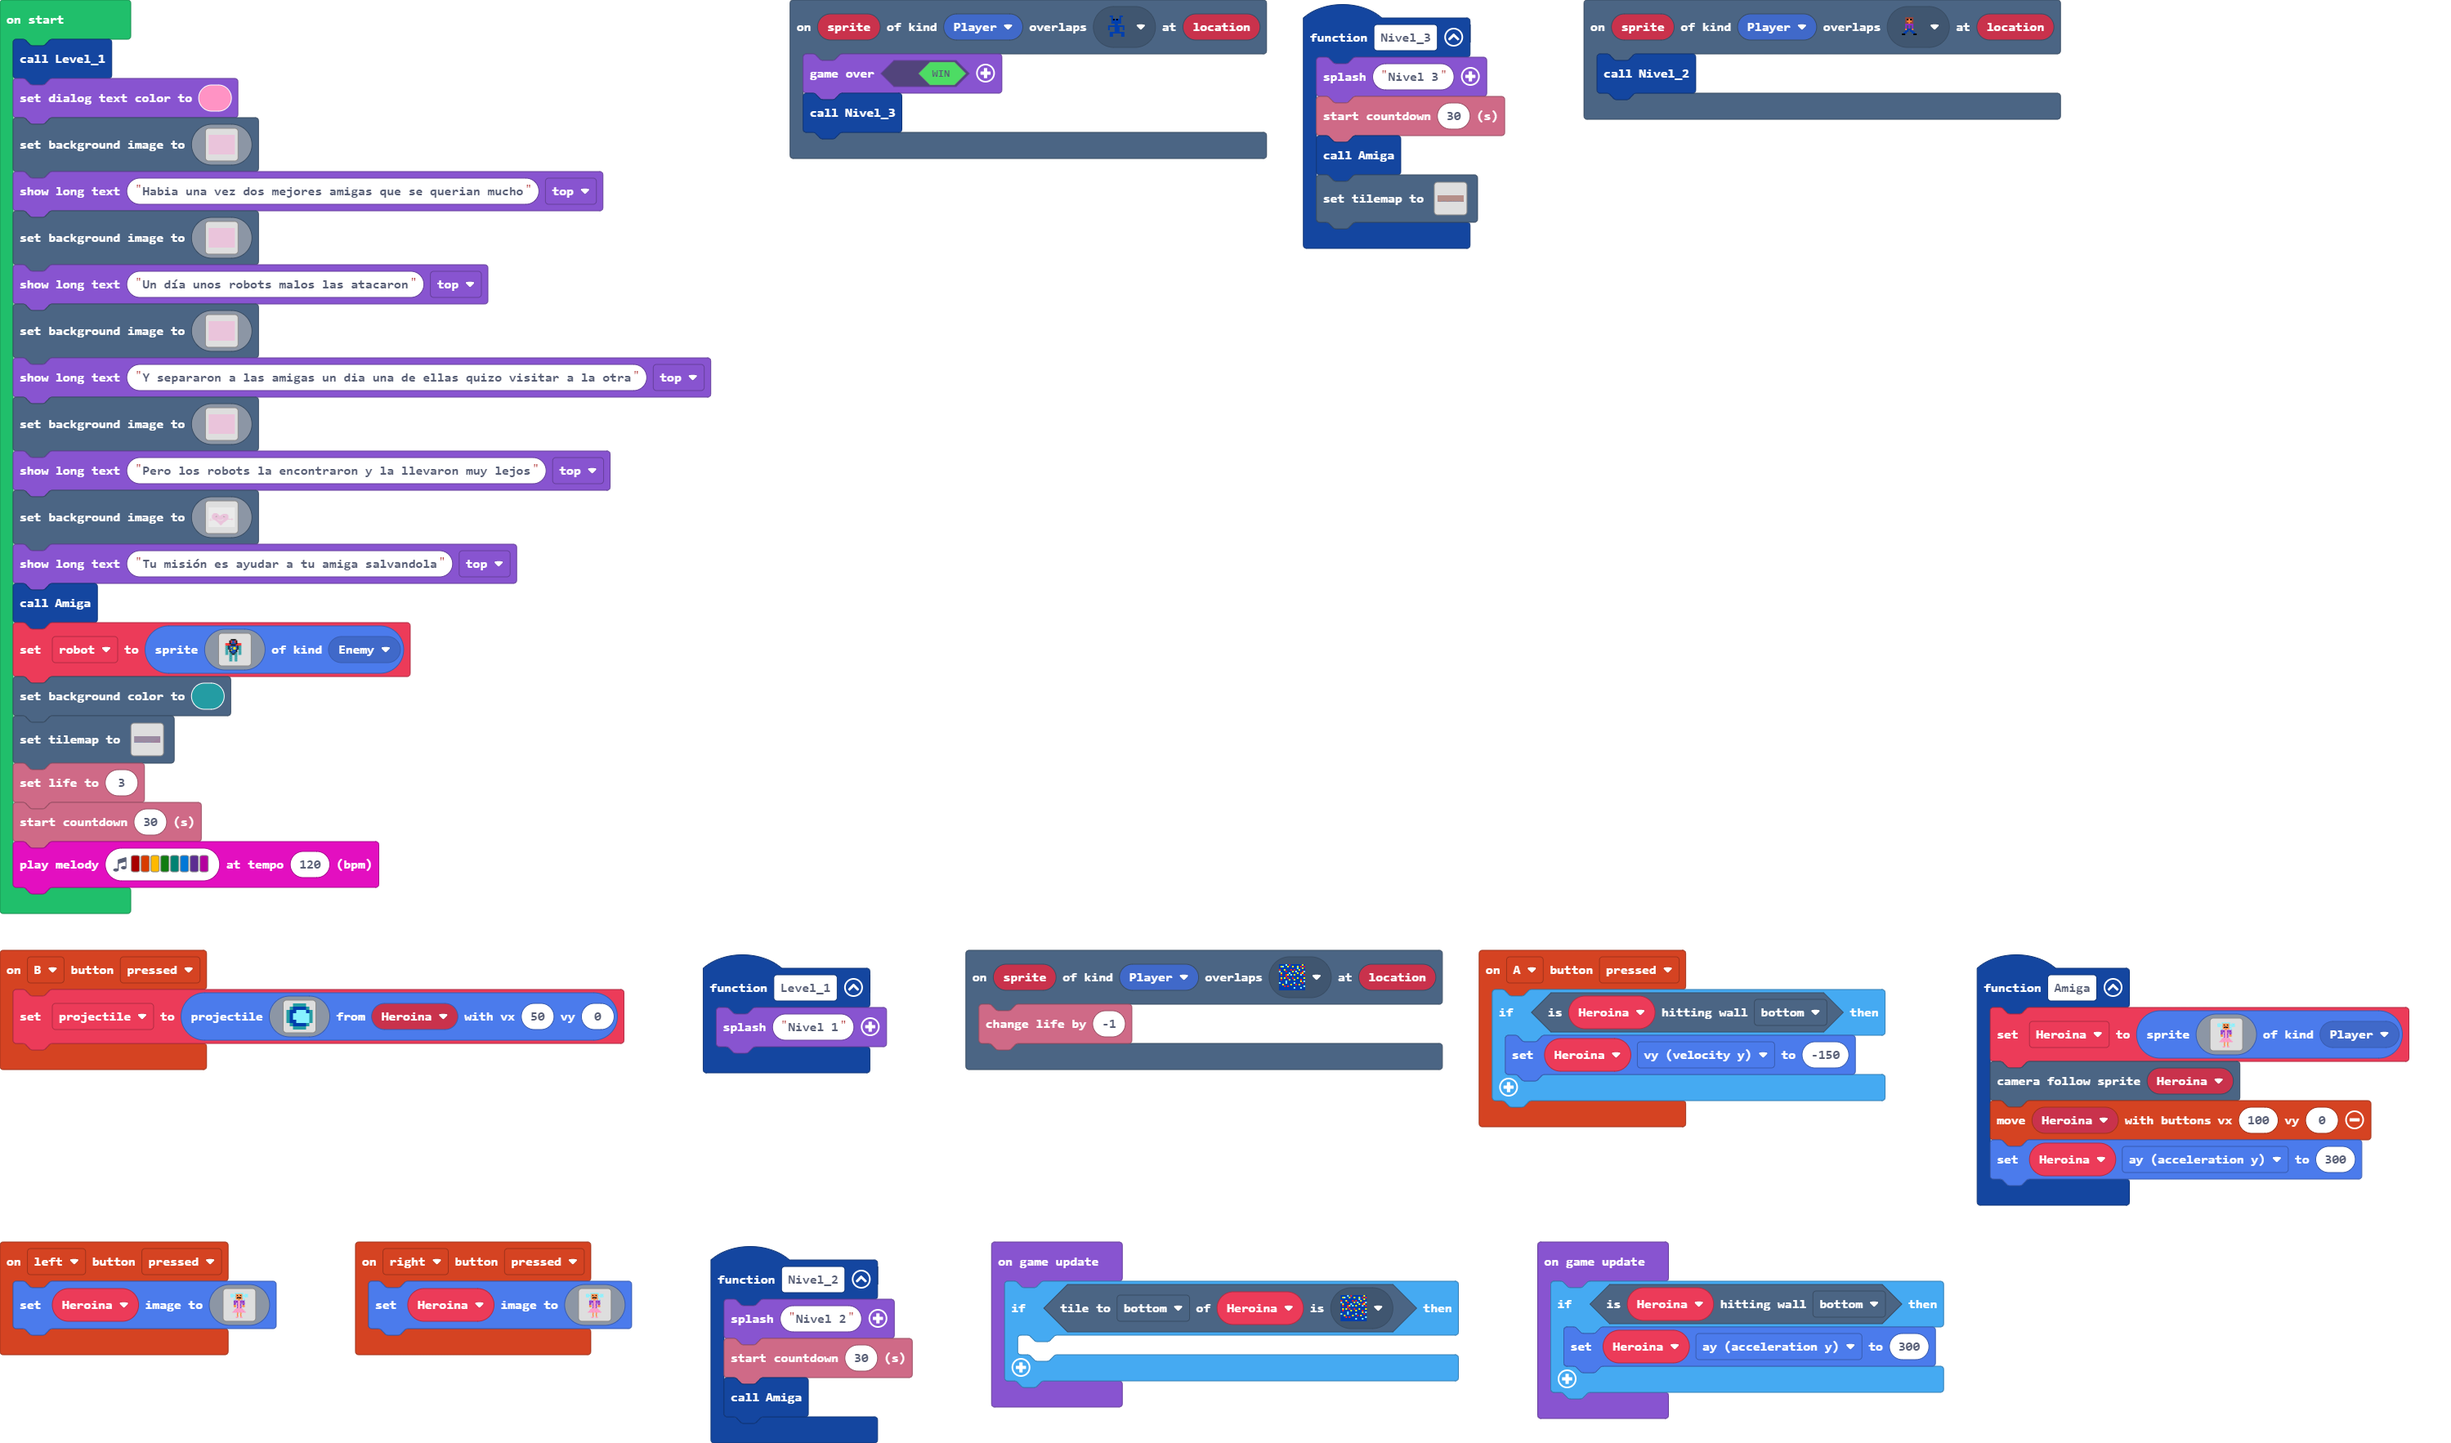
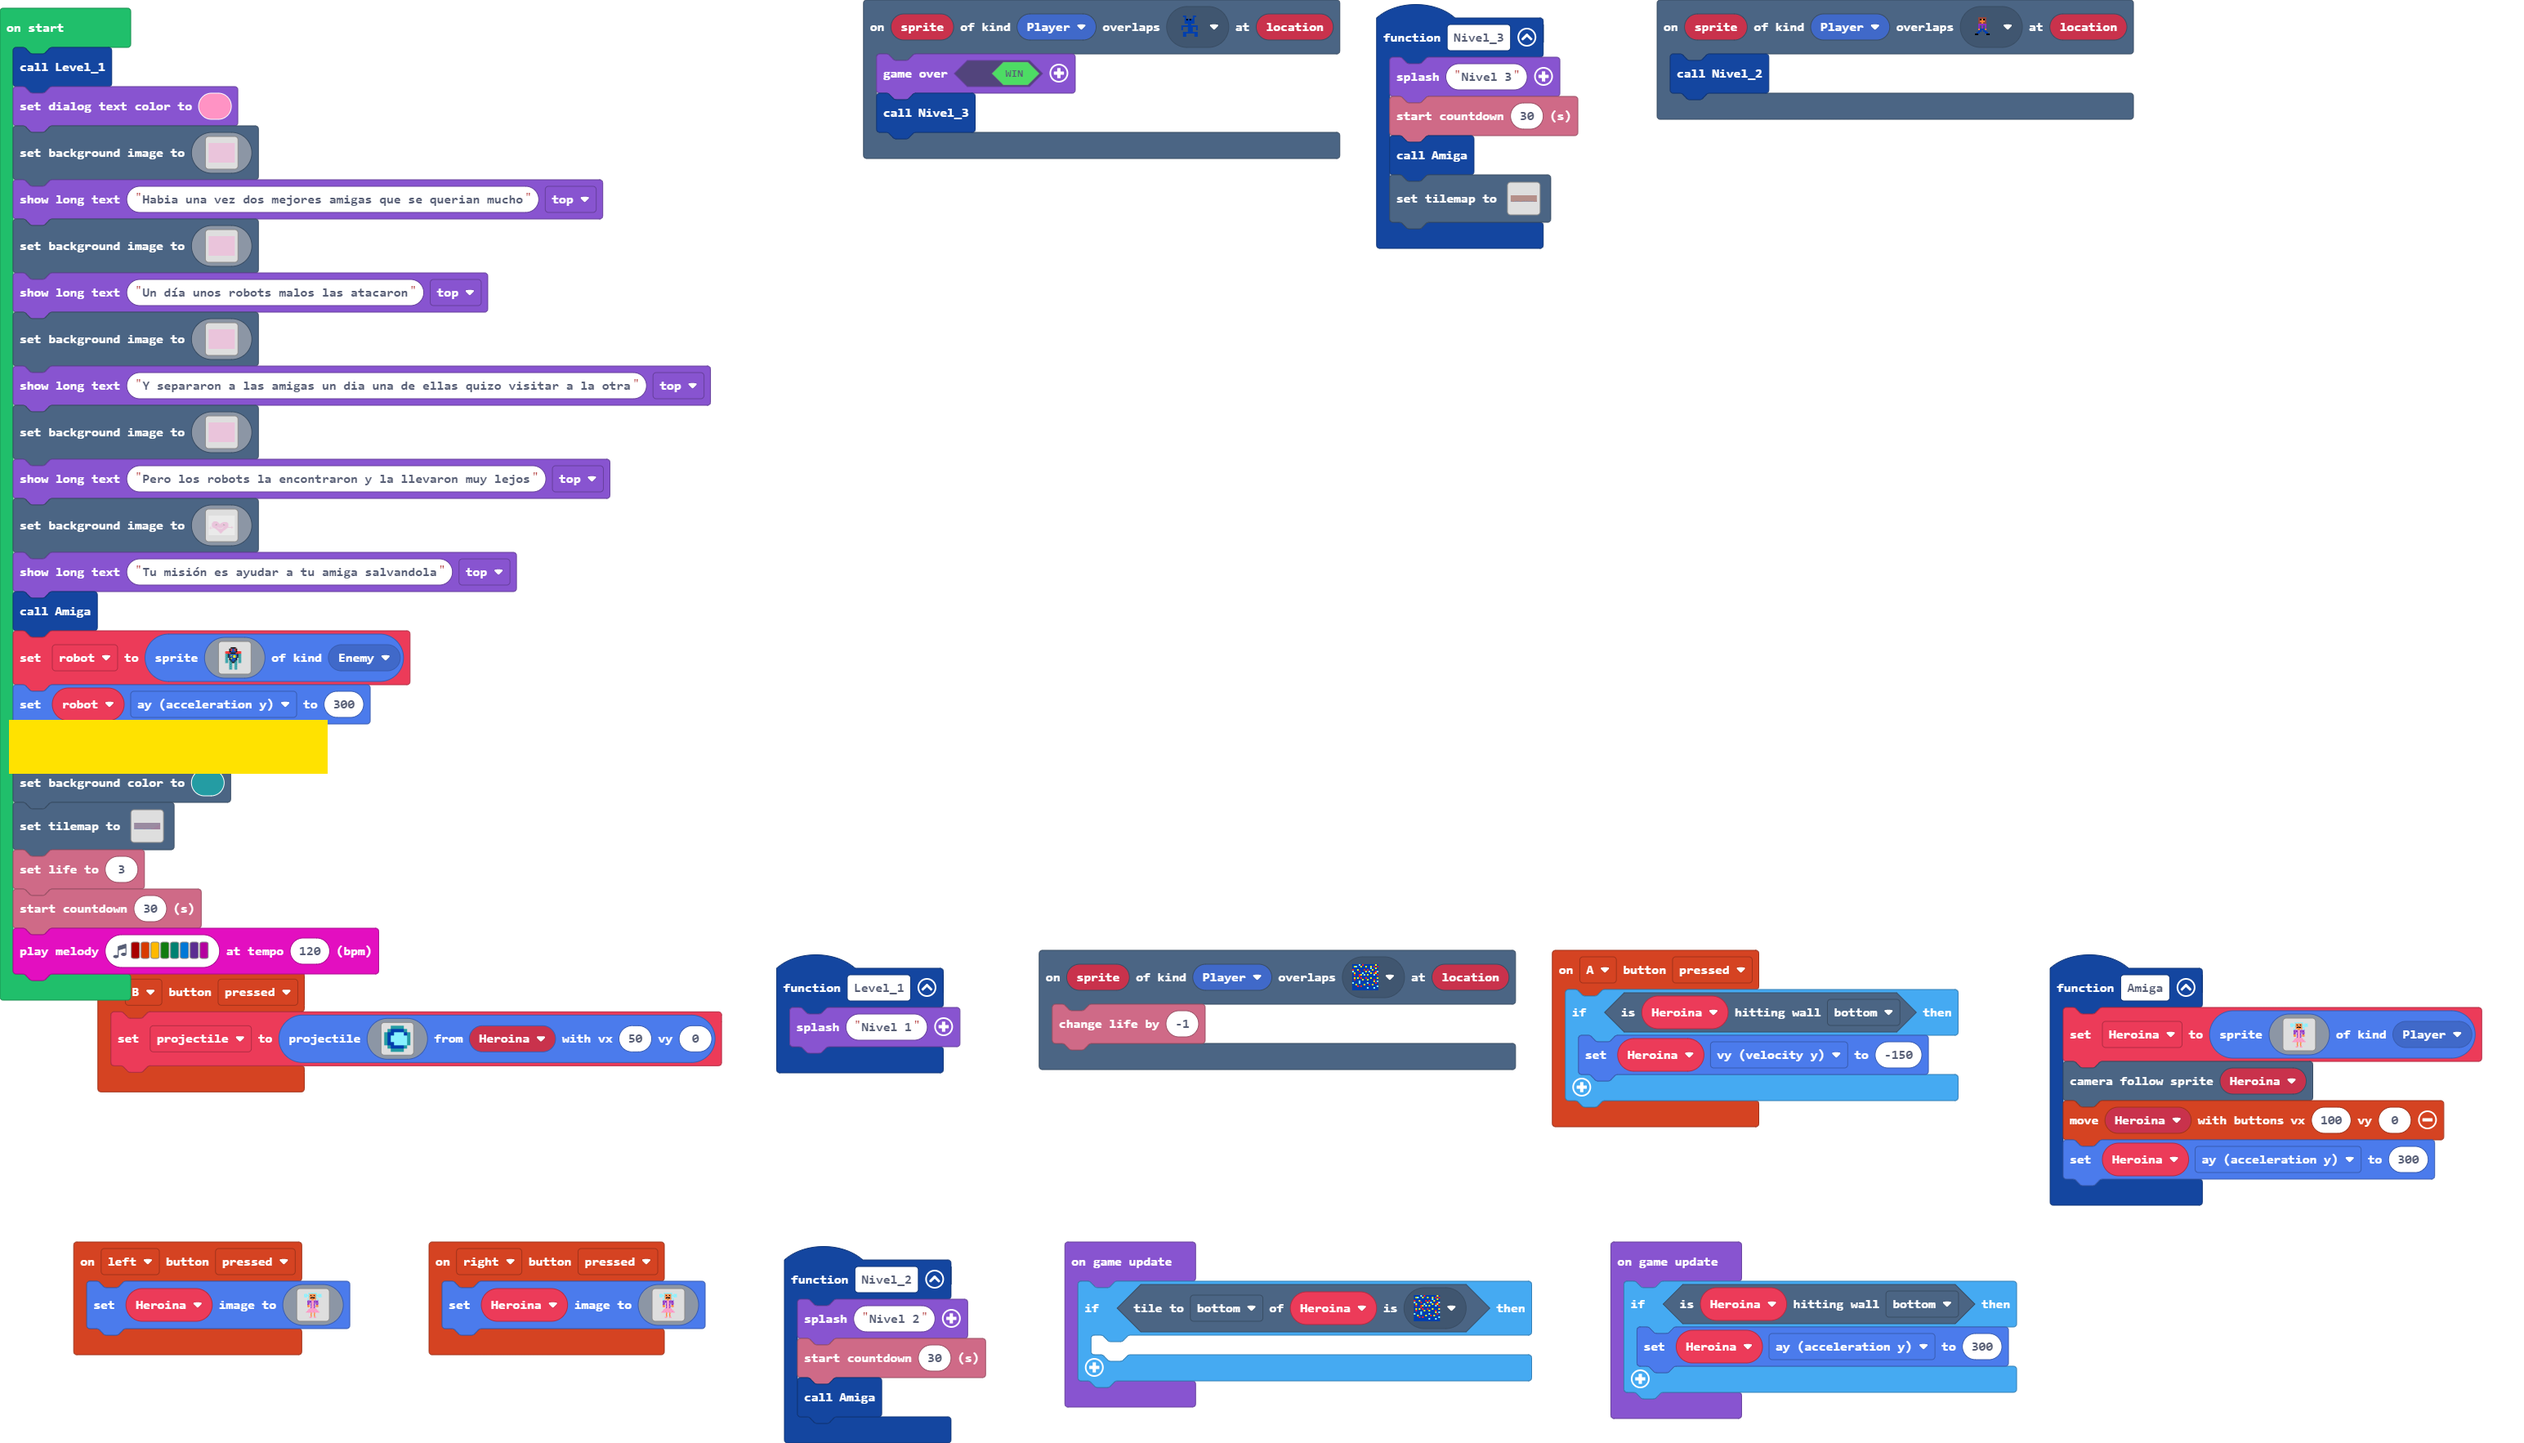
puse un bloque

diff --git a/main.ts b/main.ts
@@ -789,6 +789,8 @@ let robot = sprites.create(img`
     . . . . 6 6 . . 6 6 . . . . . . 
     . . . . . . . . . . . . . . . . 
     `, SpriteKind.Enemy)
+robot.ay = 300
+robot.setPosition(97, 0)
 scene.setBackgroundColor(6)
 tiles.setTilemap(tiles.createTilemap(hex`4000100003030303030303030303030303030303030303030303030303030303030303030303030303030303030303030303030303030303030303030303030303030303030303030303030303030303030303030303030303030303030303030303030303030303030303030303030303030303030303030303030303030303030303030303030303030303030303030303030303030303030303030303030303030303030303030303030303030303030303030303030303030303030303030303030303030303030303030303030303030303030303030303030303030303030303030303030303030303030303030303030303030303030303030303030303030303030303030303030303030303030303030303030303030303030303030303030303030303030303030303030303030303030303030303030303030303030303010303030303030303030303030303030303030303030303030303030303030303030303030303030303030303030303030303030303030303030303030404040403030303030303030303030303030303030303030303030303030303030303030303030303030303030303030303030303030303030303030303040404040404030303030303030303030303030303030303030303030303030303030303030303030303030303030303030303030303030303030303030304040404040404040303030303030303030303030303030303030303030303030303030303030303030303030303030303030303030303030303030303030404040404040404040403030303030303030303030303030303030303030303030303030303030303030303030303030303030303030303030303030303030404040404040404040404030303030303030303030303030303030303030303030303030303030303030303030303030303040303030303030303030303040404040404040404040404040404040404040303030303030303040404040404040303030303030303030303030303030303030303030404030303030303040404040404040404040404040403030303030303030303030304030303030303030303030303030303030303030303030303040303030304040303030303040404040404040404040404040404030303030303040303030303030303030303030303030303030303030403040303040304030303030303040403030303040404040404040404040404040404040303030303030303030403030303030303030303030303030303030303030303030303030303030303030404030303040404040404040404040404040404040402020202020202020202020202020202020202020202040404040404020202020202020202020202020204040404040404040404040404040404040404040404`, img`
     . . . . . . . . . . . . . . . . . . . . . . . . . . . . . . . . . . . . . . . . . . . . . . . . . . . . . . . . . . . . . . . . 
